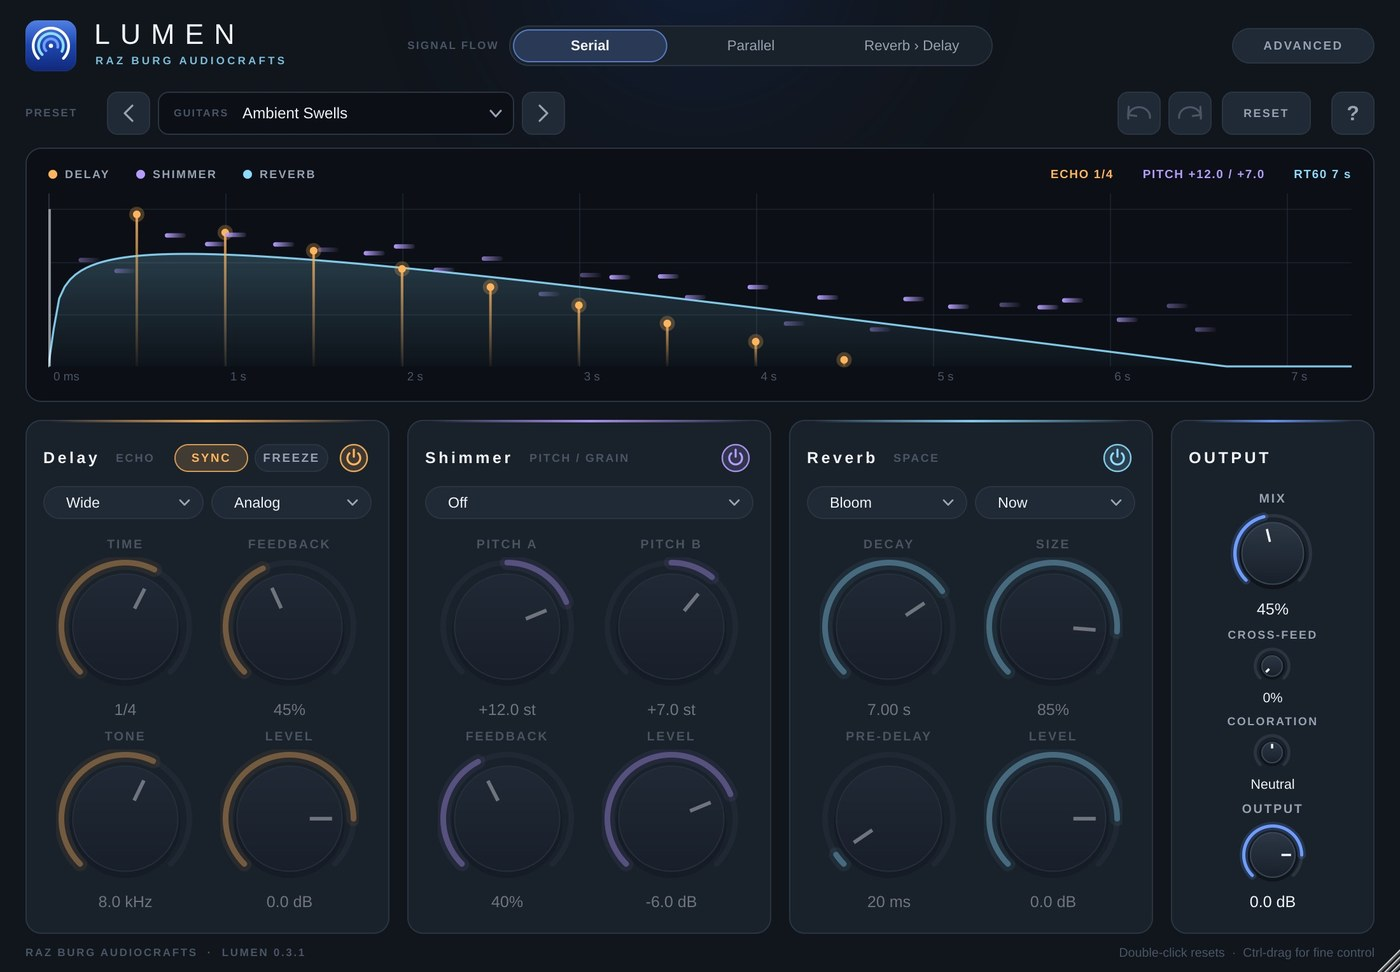
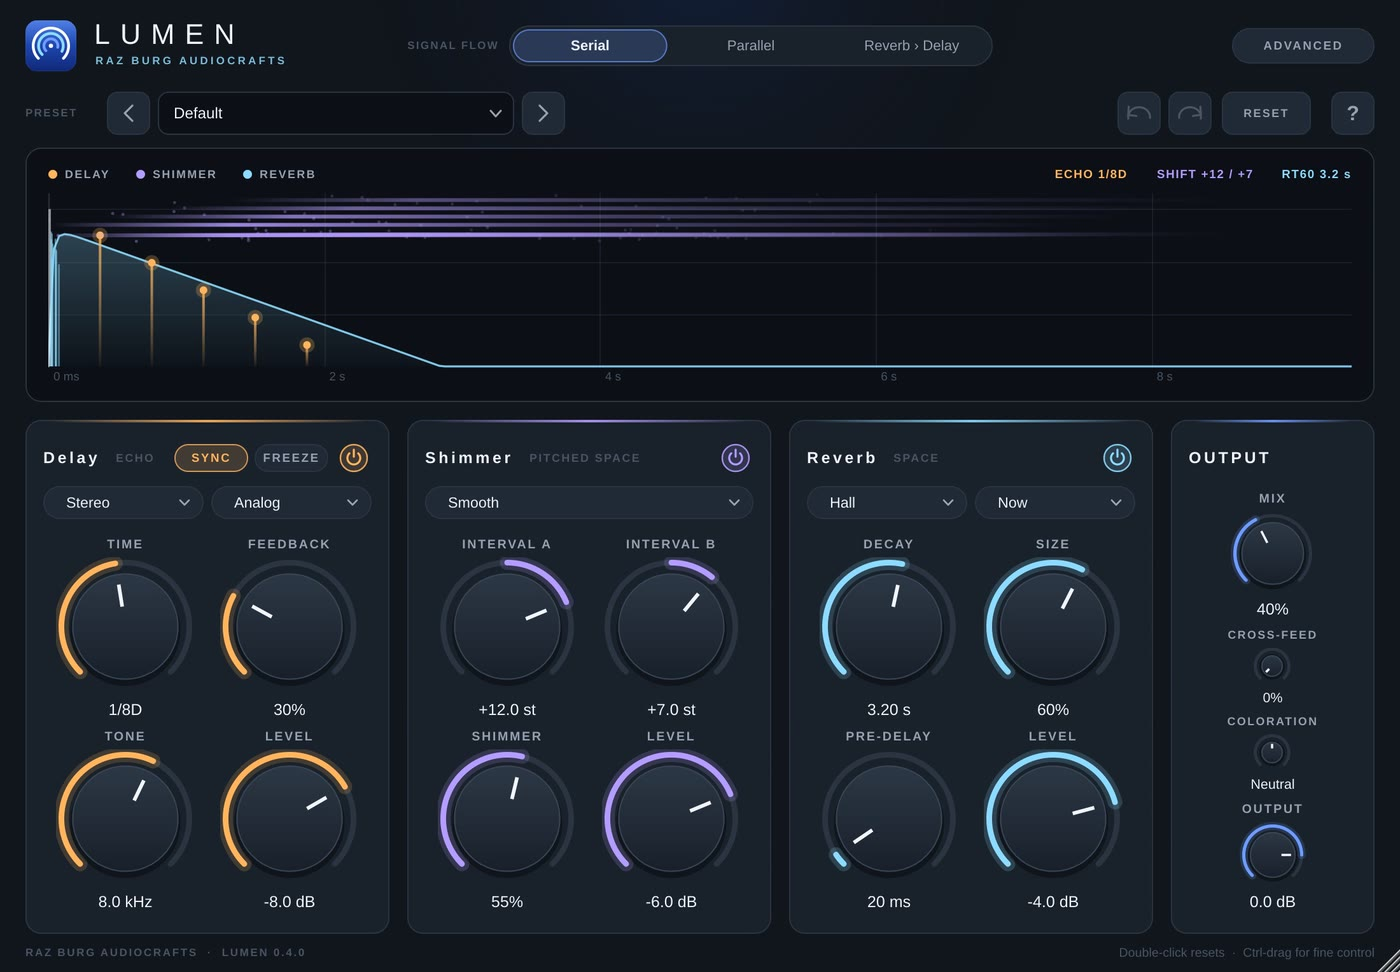
Lumen 0.4.0: new shimmer reverb on the product page, home page and user guide; new screenshot
Claude-Session: https://claude.ai/code/session_01EGCnYb4ySvZpCinnWgojhV

diff --git a/lumen/manual/index.html b/lumen/manual/index.html
@@ -22,7 +22,7 @@ main a{color:var(--cyan)}</style></head><body>
 <div class="wrap"><nav><a href="#quick-start">Quick start</a><a href="#toolbar">Toolbar</a><a href="#header">Header</a><a href="#display">Display</a><a href="#delay">Delay</a><a href="#shimmer">Shimmer</a><a href="#reverb">Reverb</a><a href="#output">Output</a><a href="#working-with-controls">Working with controls</a><a href="#using-lumen-on-an-insert-or-a-send">Using Lumen on an insert or a send</a><a href="#preset-categories">Preset categories</a><a href="#licence">Licence</a><a href="#support">Support</a></nav><main>
 <img class="shot" src="../../img/lumen.jpg" alt="Lumen plugin window">
 <h1>Lumen User Guide</h1>
-<p>Lumen is a reverb, delay and granular shimmer processor by Raz Burg AudioCrafts. Three engines can run alone or together, in series or in parallel, with a global Coloration stage on the output.</p>
+<p>Lumen is a reverb, delay and shimmer reverb processor by Raz Burg AudioCrafts. Three engines can run alone or together, in series or in parallel, with a global Coloration stage on the output.</p>
 <h2 id="quick-start">Quick start</h2>
 <ul>
 <li><b>Lumen opens fully dry:</b> every engine is off and Coloration sits at Neutral. You hear your track unchanged.</li>
@@ -41,13 +41,13 @@ main a{color:var(--cyan)}</style></head><body>
 <h2 id="header">Header</h2>
 <ul>
 <li>Signal Flow chooses how the engines are connected:</li>
-<li><b>Serial:</b> Delay feeds Shimmer, which feeds Reverb. Echoes are smeared into the space.</li>
+<li><b>Serial:</b> Delay feeds Shimmer, which feeds Reverb. Echoes are smeared into the space, and the shimmer gets an extra layer of room.</li>
 <li><b>Parallel:</b> each engine hears the dry signal on its own, and their outputs are summed. Clearer and more defined.</li>
 <li><b>Reverb › Delay:</b> the reverb comes first and the delay repeats the reverb tail. Good for big ambient throws.</li>
 <li><b>Advanced:</b> shows every parameter of each engine, below its main knobs.</li>
 </ul>
 <h2 id="display">Display</h2>
-<p>The display shows one time line with the dry hit, the delay repeats, the shimmer grains and the reverb envelope, each in its engine&#x27;s colour. It follows every knob move immediately.</p>
+<p>The display shows one time line with the dry hit, the delay repeats, the rising shimmer and the reverb envelope, each in its engine&#x27;s colour. It follows every knob move immediately.</p>
 <h2 id="delay">Delay</h2>
 <p>A tempo-synced stereo delay with analog, tape and lo-fi characters.</p>
 <ul>
@@ -62,14 +62,15 @@ main a{color:var(--cyan)}</style></head><body>
 <li><b>Advanced:</b> Low-Cut (thins the repeats), Drive (saturation inside the feedback loop), Ducking (lowers the repeats while you play, so they bloom in the gaps), Mod Rate and Mod Depth (pitch movement of the repeats).</li>
 </ul>
 <h2 id="shimmer">Shimmer</h2>
-<p>A granular pitch shifter in a feedback loop, for octave-up halos and evolving textures.</p>
+<p>A shimmer reverb: a lush, modulated reverb with pitch shifters inside its feedback loop. Each time the tail goes round the loop, part of it is shifted up (or down) again, so the sound climbs octave by octave into a bright, choir-like wash that grows out of what you play. It is a complete reverb of its own and works without the Reverb section.</p>
 <ul>
-<li><b>Pitch A and Pitch B:</b> two grain voices, each shifted from -24 to +24 semitones. +12 is an octave up, +7 a fifth.</li>
-<li><b>Feedback:</b> feeds the shifted grains back into the shifter, so each pass climbs or falls again.</li>
+<li><b>Interval A:</b> the main pitch step of each pass, from -24 to +24 semitones. +12 (an octave up) is the classic shimmer; +7 is a fifth, +19 an octave and a fifth.</li>
+<li><b>Interval B:</b> a second, quieter voice, for example +7 over the octave, or -12 for an octave down underneath. Off at 0.</li>
+<li><b>Shimmer:</b> how much of the tail is pitch shifted on each pass, which sets how fast and how far the sound climbs. Low values add a gentle halo; high values bloom into a rising cloud.</li>
 <li><b>Level:</b> output level of the shimmer.</li>
-<li><b>Reverse:</b> Off, On (grains play backwards) or Random.</li>
-<li><b>Advanced:</b> Grain (length of each grain, short is glassy and long is smooth), Density (how many grains overlap), Spray (random timing of the grains).</li>
-<li><b>Tip:</b> in Serial routing the shimmer feeds the reverb, which turns the grains into a smooth wash.</li>
+<li><b>Voice:</b> Smooth, or Reverse (each fragment of the shifted sound plays backwards: softer, like an organ).</li>
+<li><b>Advanced:</b> Decay (length of the tail), Size (size of the space; bigger also climbs more slowly), Diffusion (how quickly echoes melt into a smooth wash), Mod (gentle movement that keeps the tail lush), Tone (how high the climbing octaves may go before they are softened) and Low-Cut (keeps low end and downward shifts from getting muddy).</li>
+<li><b>Tip:</b> for the classic sound start with Interval A at +12, Shimmer around 50 % and a long Decay, then use Tone to choose between a soft glow and a bright sparkle.</li>
 </ul>
 <h2 id="reverb">Reverb</h2>
 <p>An algorithmic reverb: six types of space, each available in five eras.</p>
@@ -115,14 +116,14 @@ main a{color:var(--cyan)}</style></head><body>
 <li><b>Keys &amp; Piano:</b> halls and rooms for piano, Rhodes and organ.</li>
 <li><b>Synths &amp; Pads:</b> shimmer pads, lush halls and rhythmic echoes.</li>
 <li><b>Strings &amp; Orchestral:</b> scoring stages and concert halls.</li>
-<li><b>Ambient &amp; FX:</b> freezes, reverse grains and runaway feedback.</li>
+<li><b>Ambient &amp; FX:</b> freezes, reverse shimmers and runaway feedback.</li>
 <li><b>Vintage:</b> the 60s, 70s, 80s and 90s studio sounds.</li>
 <li><b>Send (100% Wet):</b> ready-made aux returns.</li>
 </ul>
 <h2 id="licence">Licence</h2>
 <ul>
 <li>Lumen is free. Get it from <a href="../../account/">My plugins</a> at audiocrafts.razburg.com, with your free site account.</li>
-<li><b>Lumen is protected with iLok:</b> redeem the iLok code from My plugins in iLok License Manager with your free iLok account, and activate Lumen on up to two computers. To move it to another computer, deactivate it in iLok License Manager first.</li>
+<li><b>Lumen is protected with iLok:</b> redeem the iLok code from <a href="../../account/">My plugins</a> in iLok License Manager with your free iLok account, and activate Lumen on up to two computers. To move it to another computer, deactivate it in iLok License Manager first.</li>
 </ul>
 <h2 id="support">Support</h2>
 <p>Visit audiocrafts.razburg.com for updates and support.</p>

diff --git a/lumen/index.html b/lumen/index.html
@@ -38,9 +38,9 @@
 <div><div class="eyebrow">Reverb · Delay · Shimmer</div><h1>Lumen</h1></div>
 <div class="right">
 <p class="tag">Every era of space, in one plugin.</p>
-<p>A creative space processor that blends lush reverbs, warm analog-style delays and a glittering pitch shimmer into one instrument. It opens fully dry, so nothing changes until you switch an engine on.</p>
+<p>A creative space processor that blends lush reverbs, warm analog-style delays and a rising shimmer reverb into one instrument. It opens fully dry, so nothing changes until you switch an engine on.</p>
 <div class="btns"><a class="btn btn-accent" href="/account/#claim=lumen">Get Lumen free <svg viewBox="0 0 16 16" fill="none" stroke="currentColor" stroke-width="1.8" aria-hidden="true"><path d="M3 8h10M9 4l4 4-4 4"/></svg></a><a class="btn btn-line" href="/lumen/manual/">User guide</a></div>
-<p class="meta">v0.3.1 · AAX, AU, VST3 · macOS and Windows</p>
+<p class="meta">v0.4.0 · AAX, AU, VST3 · macOS and Windows</p>
 </div>
 </div>
 <div class="big"><img src="/img/lumen.jpg" alt="Lumen plugin interface with Delay, Shimmer and Reverb sections" width="1400" height="972" fetchpriority="high"></div>
@@ -51,7 +51,7 @@
 <section class="sec">
 <div class="wrap">
 <div class="sec-head rv"><div><div class="eyebrow">Features</div><h2>Three engines that play together.</h2></div><p>Reverb, delay and shimmer each have their own section, with a shared view that shows exactly what the tail is doing.</p></div>
-<div class="feat-grid rv"><div class="feat"><h3>Thirty reverb flavours</h3><p>Hall, Plate, Room, Chamber, Bloom and Cloud, each in five eras from the 60s to now.</p></div><div class="feat"><h3>Size without pitch bends</h3><p>Change the room size freely. It never bends the pitch: the old tail simply rings out.</p></div><div class="feat"><h3>Coloration</h3><p>One knob from warm Dark to bright Shine harmonics, neutral in the middle.</p></div><div class="feat"><h3>Analog-style delay</h3><p>Tempo-synced echoes with analog, tape and lo-fi character, Freeze and wide stereo modes.</p></div><div class="feat"><h3>Granular shimmer</h3><p>Two pitch voices for octave and fifth halos, with their own feedback and level.</p></div><div class="feat"><h3>Built for sessions</h3><p>47 presets in 9 categories, 100-step undo and redo, one-click reset and a built-in user guide.</p></div></div>
+<div class="feat-grid rv"><div class="feat"><h3>Thirty reverb flavours</h3><p>Hall, Plate, Room, Chamber, Bloom and Cloud, each in five eras from the 60s to now.</p></div><div class="feat"><h3>Size without pitch bends</h3><p>Change the room size freely. It never bends the pitch: the old tail simply rings out.</p></div><div class="feat"><h3>Coloration</h3><p>One knob from warm Dark to bright Shine harmonics, neutral in the middle.</p></div><div class="feat"><h3>Analog-style delay</h3><p>Tempo-synced echoes with analog, tape and lo-fi character, Freeze and wide stereo modes.</p></div><div class="feat"><h3>Shimmer reverb</h3><p>Pitch shifting inside its own lush reverb loop, so the tail climbs octave by octave into a rising, choir-like wash. Two intervals, Smooth or Reverse voice.</p></div><div class="feat"><h3>Built for sessions</h3><p>47 presets in 9 categories, 100-step undo and redo, one-click reset and a built-in user guide.</p></div></div>
 </div>
 </section>
 <section class="sec" style="border-top:1px solid var(--line);background:var(--bg2)">

diff --git a/index.html b/index.html
@@ -66,8 +66,8 @@
 <a class="tile rv" href="/lumen/" style="--accent:var(--cyan)"><span class="bar"></span>
 <div class="pic"><img src="/img/lumen.jpg" alt="Lumen interface" width="1400" height="972" loading="lazy"></div>
 <div class="txt"><h3>Lumen</h3><div class="cat">Reverb · Delay · Shimmer</div>
-<p>Thirty reverb flavours across five eras, analog-style delay and a granular shimmer in one space processor.</p>
-<div class="tfoot"><span>Free · v0.3.1</span><b>Discover <svg viewBox="0 0 16 16" fill="none" stroke="currentColor" stroke-width="1.8" aria-hidden="true"><path d="M3 8h10M9 4l4 4-4 4"/></svg></b></div></div></a>
+<p>Thirty reverb flavours across five eras, analog-style delay and a rising shimmer reverb in one space processor.</p>
+<div class="tfoot"><span>Free · v0.4.0</span><b>Discover <svg viewBox="0 0 16 16" fill="none" stroke="currentColor" stroke-width="1.8" aria-hidden="true"><path d="M3 8h10M9 4l4 4-4 4"/></svg></b></div></div></a>
 <a class="tile rv" href="/chroma/" style="--accent:var(--amber)"><span class="bar"></span>
 <div class="pic"><img src="/img/chroma.jpg" alt="Chroma interface" width="1400" height="942" loading="lazy"></div>
 <div class="txt"><h3>Chroma</h3><div class="cat">Multi-character compressor</div>
@@ -88,9 +88,9 @@
 <div class="eyebrow">Reverb · Delay · Shimmer</div>
 <h2>Lumen</h2>
 <p class="tag">Every era of space, in one plugin.</p>
-<p>Six reverb modes times five eras, from 60s tape-fed chambers to clean modern halls. Add a warm tempo-synced delay and a glittering pitch shimmer, then route them any way you like. Eras are level-matched, so switching changes colour, not volume.</p>
+<p>Six reverb modes times five eras, from 60s tape-fed chambers to clean modern halls. Add a warm tempo-synced delay and a shimmer reverb that climbs octave by octave, then route them any way you like. Eras are level-matched, so switching changes colour, not volume.</p>
 <div class="btns"><a class="btn btn-accent" href="/account/#claim=lumen">Get Lumen free</a><a class="btn btn-line" href="/lumen/">Learn more</a></div>
-<p class="meta"><b>v0.3.1</b> · AAX, AU, VST3 · macOS and Windows</p>
+<p class="meta"><b>v0.4.0</b> · AAX, AU, VST3 · macOS and Windows</p>
 </div>
 <div class="media rv"><img class="shot" src="/img/lumen.jpg" alt="Lumen plugin interface with Delay, Shimmer and Reverb sections" width="1400" height="972" loading="lazy"></div>
 </div>
